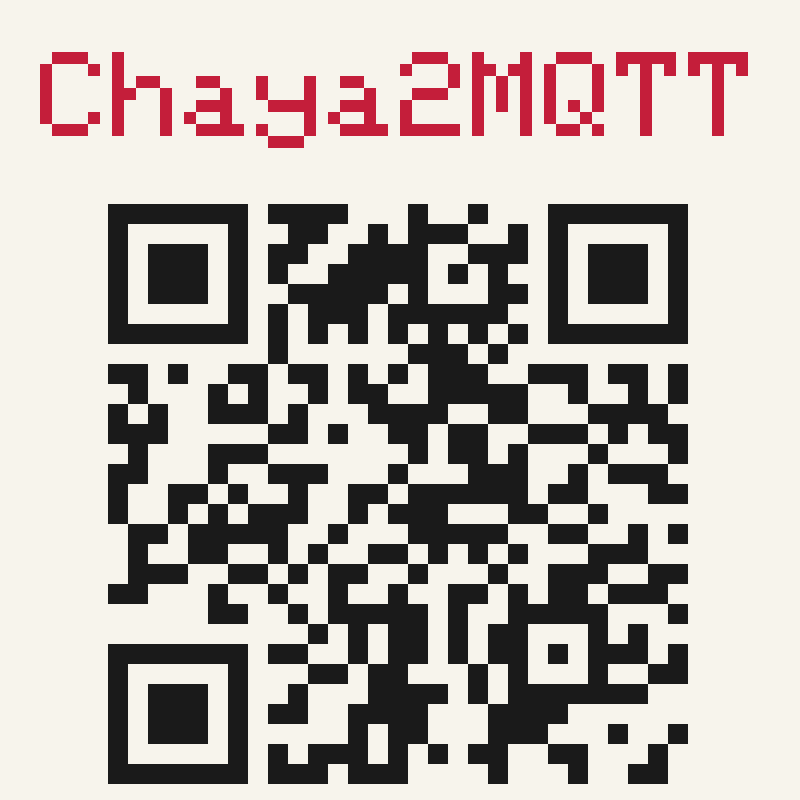
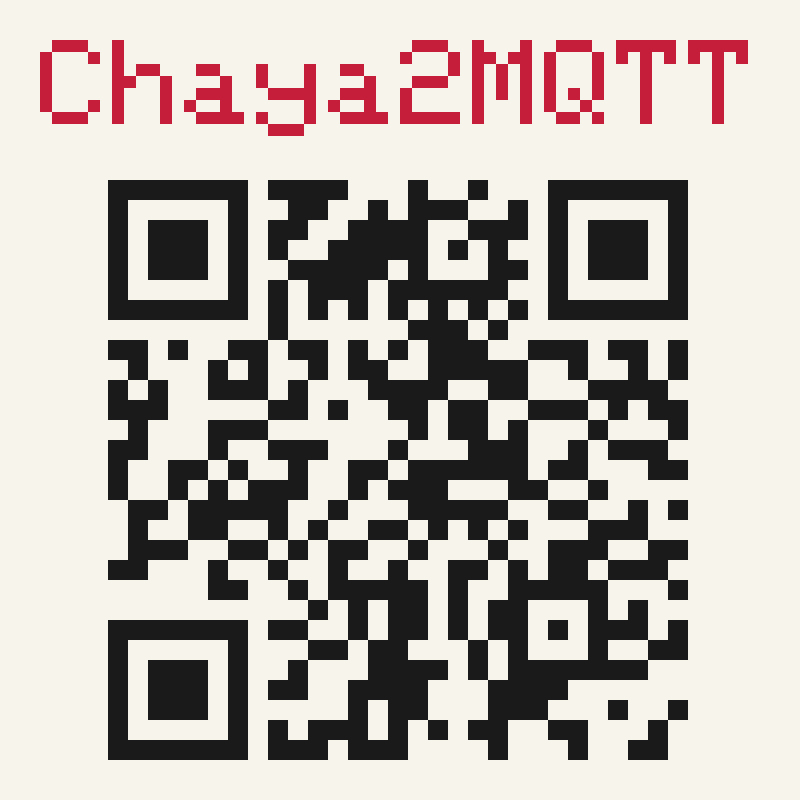
Update display documentation and rendering logic for QR code alignment
- Revised the `DISPLAY.md` and `MODULES.md` documentation to clarify the layout of the SoftAP QR code, ensuring equal top and bottom frame padding.
- Enhanced the rendering logic in `render_display_previews.mjs` and `draw.cpp` to implement equal padding for the QR code and title, improving visual consistency.
- Updated the `setup-qr.png` image to reflect the new layout changes.

These updates improve the clarity of documentation and enhance the visual presentation of the QR code in the user interface.

diff --git a/src/display/draw.cpp b/src/display/draw.cpp
@@ -340,7 +340,7 @@ DisplayView drawSplashScreen() {
         const int dw = epd.width();
         const int dh = epd.height();
         const int qrSize = qrcodegen_getSize(s_qrcode);
-        // Quiet zone: 4 modules left/right/bottom (QR standard). Top is the title band.
+        // Quiet zone: 4 modules left/right (QR standard). Vertical outer pads match title↔frame.
         static constexpr int kQuiet = 4;
         static constexpr const char kSplashTitle[] = "Chaya2MQTT";
         const int totalMods = qrSize + 2 * kQuiet;
@@ -348,11 +348,9 @@ DisplayView drawSplashScreen() {
         if (scale < 1) {
             scale = 1;
         }
-        const int drawn   = totalMods * scale;
+        const int drawn = totalMods * scale;
         const int originX = (dw - drawn) / 2;
-        // Sit the modules near the bottom; keep a thin white pad so pixels are not clipped.
-        static constexpr int kBottomPadPx = 4;
-        const int originY = dh - kBottomPadPx - qrSize * scale;
+        const int qrPx    = qrSize * scale;
         const uint16_t dark  = GxEPD_BLACK;
         const uint16_t light = GxEPD_WHITE;
 
@@ -365,7 +363,9 @@ DisplayView drawSplashScreen() {
         for (;;) {
             epd.setTextSize(titleSize);
             epd.getTextBounds(kSplashTitle, 0, 0, &tx1, &ty1, &tw, &th);
-            if (static_cast<int>(tw) <= dw - 4 && static_cast<int>(th) + 2 <= originY) {
+            // Need room for equal top/bottom frame pads (min 4 px each) plus the QR.
+            const int free = dh - qrPx - static_cast<int>(th);
+            if (static_cast<int>(tw) <= dw - 4 && free >= 8) {
                 break;
             }
             if (titleSize <= 1) {
@@ -373,9 +373,12 @@ DisplayView drawSplashScreen() {
             }
             titleSize--;
         }
+        // Equal thirds: title↔top frame, title↔QR, QR↔bottom frame.
+        const int free     = std::max(0, dh - qrPx - static_cast<int>(th));
+        const int outerPad = free / 3;
         const int titleCursorX = (dw - static_cast<int>(tw)) / 2 - static_cast<int>(tx1);
-        const int titleCursorY =
-            (originY - static_cast<int>(th)) / 2 - static_cast<int>(ty1);
+        const int titleCursorY = outerPad - static_cast<int>(ty1);
+        const int originY      = dh - outerPad - qrPx;
 
         const uint32_t drawStartedMs = millis();
         epd.setFullWindow();

diff --git a/docs/MODULES.md b/docs/MODULES.md
@@ -313,7 +313,7 @@ counters after the active display command. Splash and power-off commands keep pr
 | `displayInit()` | Initialize SPI + EPD |
 | `displayStartTask()` | FreeRTOS task (8192 stack, priority 3) |
 | `drawHeartWithNumber(icon)` | Lucide heart / heart-crack + RX/TX deltas + arrows + battery |
-| `drawSplashScreen()` | SoftAP: red title + bottom-aligned WIFI QR for phone camera join |
+| `drawSplashScreen()` | SoftAP: red title + WIFI QR with equal top/bottom frame pads for phone camera join |
 | `displayRequest(cmd, mode, waitMs)` | Single entry: Content / BootIfChanged / PowerOffWait |
 | `displayWaitDrawIdle()` | Wait until the display task finishes the next draw |
 

diff --git a/docs/DISPLAY.md b/docs/DISPLAY.md
@@ -163,7 +163,7 @@ sequenceDiagram
 
 | Screen | Content | TextSize |
 |--------|---------|----------|
-| SoftAP `SetupQr` | Red „Chaya2MQTT" above a bottom-aligned WIFI QR; no battery | Title 3 (min 1) |
+| SoftAP `SetupQr` | Red „Chaya2MQTT" above WIFI QR with equal top/bottom frame pads; no battery | Title 3 (min 1) |
 | Product `ProductTitle` | Centered red „Chaya2MQTT" with top-right battery | Title 3 (min 1) |
 
 ## Panel power / SPI
